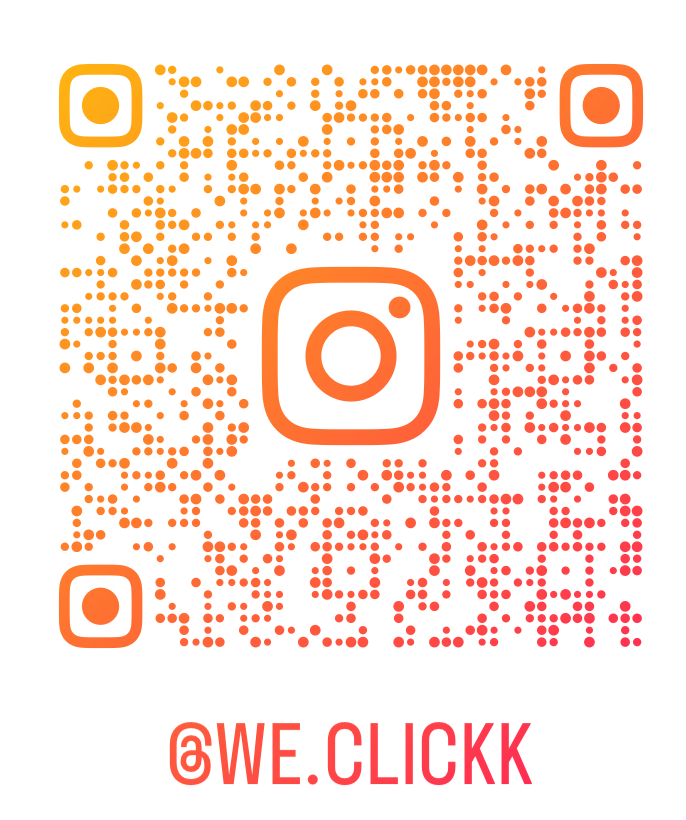
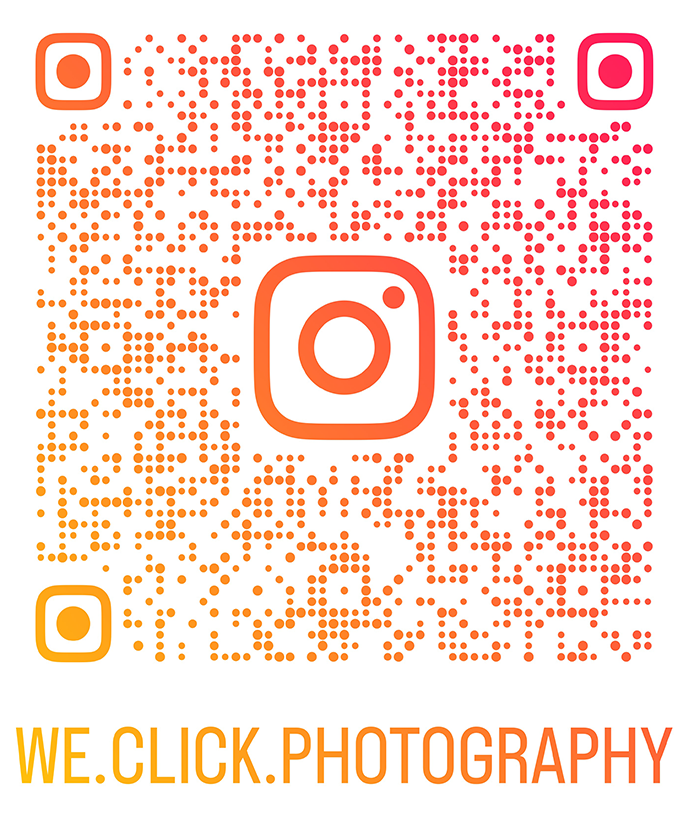
update

diff --git a/about.html b/about.html
@@ -6,7 +6,7 @@
 <meta name="description" content="">
 <meta name="author" content="">
 <link rel="shortcut icon" href="images/favicon.png">
-<title>We.Clickk Photography</title>
+<title>We Click Photography</title>
 <!-- Bootstrap core CSS -->
 <link href="style/css/bootstrap.min.css" rel="stylesheet">
 <link href="style/css/plugins.css" rel="stylesheet">
@@ -48,7 +48,7 @@
           <div class="col-md-7">
           <h5 class="section-title sans">Shaela Quader <br>
             <div class="meta"><span class="date">Co-founder and Operations Manager</span> <br> <i class="icon-phone-1"> (437)-665-8685</i> </div></h5>
-            <p>Hi, this is Shaela, the Operations Manager at We.Clickk. Growing up in a large family, I developed strong communication skills and a love for connecting with others. I enjoy meeting new people, understanding their concepts and requirements, and collaborating with photographers to bring those visions to life. Working with our clients has been a wonderful experience, thanks to their kindness and support.</p>
+            <p>Hi, this is Shaela, the Operations Manager at We Click Photography. Growing up in a large family, I developed strong communication skills and a love for connecting with others. I enjoy meeting new people, understanding their concepts and requirements, and collaborating with photographers to bring those visions to life. Working with our clients has been a wonderful experience, thanks to their kindness and support.</p>
             <blockquote>
               <p> "The best thing about a picture is that it never changes, even when the people in it do." – Andy Warhol</p>
             </blockquote>
@@ -76,14 +76,14 @@
 
             <h5 class="section-title sans">Alaul Asif<br>
               <div class="meta"> <span class="date">Founder and Photographer</span> <br> <i class="icon-phone-1"> (437)-660-0075</i></div></h5>
-            <p>Hello! I'm Alaul Asif, the chief photographer at We.Clickk. Growing up in a vibrant culture has inspired me to cover weddings, cultural events, and the fashion industry. I have a passion for capturing portraits, candid moments, and playful, humorous shots. I enjoy experimenting with light and color to create stunning images. I hope you enjoy my work and trust in my professionalism!</p>
+            <p>Hello! I'm Alaul Asif, the chief photographer at We Click Photography. Growing up in a vibrant culture has inspired me to cover weddings, cultural events, and the fashion industry. I have a passion for capturing portraits, candid moments, and playful, humorous shots. I enjoy experimenting with light and color to create stunning images. I hope you enjoy my work and trust in my professionalism!</p>
             <blockquote>
               <p> "For me, the subject of the picture is always more important than the picture." – Diane Arbus</p>
             </blockquote>
            
             <h6 class="sans">Connect Me!</h6>
             <ul class="social">
-              <li><a href="https://www.instagram.com/we.clickk/?igsh=MW1rNHFpbXN3N3k4OQ%3D%3D&utm_source=qr" target="_blank"><i class="icon-s-instagram"></i></a></li>
+              <li><a href="https://www.instagram.com/we.click.photography/" target="_blank"><i class="icon-s-instagram"></i></a></li>
             </ul>
           </div>
           <!-- /column --> 

diff --git a/include/footer.html b/include/footer.html
@@ -3,8 +3,8 @@
       <div class="row">
         <div class="col-sm-3">
           <div class="widget">
-            <h4 class="widget-title">Follow Us <a href="https://www.instagram.com/we.clickk/?igsh=MW1rNHFpbXN3N3k4OQ%3D%3D&utm_source=qr" target="_blank">@we.clickk</a> </h4>
-            <figure class="overlay"> <a href="https://www.instagram.com/we.clickk/?igsh=MW1rNHFpbXN3N3k4OQ%3D%3D&utm_source=qr" target="_blank"><img src="images/us/instagram_qr.png" style="width: 200px;"" /> </a> </figure>
+            <h4 class="widget-title">Follow Us <a href="https://www.instagram.com/we.click.photography/" target="_blank">@we.click.photography</a> </h4>
+            <figure class="overlay"> <a href="https://www.instagram.com/we.click.photography/" target="_blank"><img src="images/us/instagram_qr.png" style="width: 200px;"" /> </a> </figure>
           </div>
           <!-- /.widget --> 
         </div>
@@ -14,7 +14,7 @@
           <div class="widget">
             <h4 class="widget-title">Contact</h4>
             <address>
-            <strong>We.Clickk Photography</strong><br>
+            <strong>We Click Photography</strong><br>
            920 Yonge Street <br>
            Toronto, ON, M4W 3C8<br>
          <i class="icon-phone-1">&nbsp; (437)-667-8685</i> <br>
@@ -59,7 +59,7 @@ Shaela Quader is an amateur photographer and photoshoot supervisor who arranges 
     
     <div class="sub-footer">
       <div class="container inner">
-        <p class="text-center">© All rights reserved by We.Clickk Photography Team. </p>
+        <p class="text-center">© All rights reserved by We Click Photography Team. </p>
          
       </div>
       <!-- .container --> 

diff --git a/index.html b/index.html
@@ -6,7 +6,7 @@
 <meta name="description" content="">
 <meta name="author" content="">
 <link rel="shortcut icon" href="images/favicon.png">
-<title>We.Clickk Photography</title>
+<title>We Click Photography</title>
 <!-- Bootstrap core CSS -->
 <link href="style/css/bootstrap.min.css" rel="stylesheet">
 <link href="style/css/plugins.css" rel="stylesheet">
@@ -42,7 +42,7 @@
     <!-- /.navbar -->
 
     <!-- <div class="rev_slider_wrapper">
-      <div id="slider1" class="rev_slider" data-version="5.0">
+      <div id="slider1" class="rev_s lider" data-version="5.0">
         <ul id="slider">
           <li data-transition="parallaxtoright" data-fstransition="fade"> <img src="images/slider/slider_01.jpeg" class="img-fluid" alt=""> </li>
           <li data-transition="parallaxtobottom"> <img src="images/slider/slider_02.jpeg" alt=""> </li>
@@ -167,7 +167,7 @@
   <!--Bootstrap Carousel End-->
 
     <div class="container inner">
-      <p class="lead text-center bm0">We're "We.Clickk" team, freelance photographers specializing in wedding, proposal, kids, and conceptual portrait photography based in Toronto, Canada. Here you will be able to find our latest and favorite shots.</p>
+      <p class="lead text-center bm0">We're "We Click Photography" team, freelance photographers specializing in wedding, proposal, kids, and conceptual portrait photography based in Toronto, Canada. Here you will be able to find our latest and favorite shots.</p>
     </div>
     <!-- /.container -->
     

diff --git a/include/menu.html b/include/menu.html
@@ -1,6 +1,6 @@
 <div class="navbar navbar-default default" role="navigation">
     <div class="navbar-header">
-      <div class="navbar-brand"><a href="index.html"><img src="#" srcset="images/logo.png 1x, images/logo.png 2x" alt="" /></a></div>
+      <div class="navbar-brand"><a href="index.html"><img src="#" srcset="images/we.click.logo.white.2024.png 1x, images/we.click.logo.white.2024.png 2x" style="width: 128px!important;" alt="" /></a></div>
       <div class="nav-bars-wrapper">
         <div class="nav-bars-inner">
           <div class="nav-bars" data-toggle="collapse" data-target=".navbar-collapse"><span></span></div>

diff --git a/couple_photography.html b/couple_photography.html
@@ -6,7 +6,7 @@
 <meta name="description" content="">
 <meta name="author" content="">
 <link rel="shortcut icon" href="images/favicon.png">
-<title>We.Clickk Photography</title>
+<title>We Click Photography</title>
 <!-- Bootstrap core CSS -->
 <link href="style/css/bootstrap.min.css" rel="stylesheet">
 <link href="style/css/plugins.css" rel="stylesheet">

diff --git a/engagement_photography.html b/engagement_photography.html
@@ -6,7 +6,7 @@
 <meta name="description" content="">
 <meta name="author" content="">
 <link rel="shortcut icon" href="images/favicon.png">
-<title>We.Clickk Photography</title>
+<title>We Click Photography</title>
 <!-- Bootstrap core CSS -->
 <link href="style/css/bootstrap.min.css" rel="stylesheet">
 <link href="style/css/plugins.css" rel="stylesheet">

diff --git a/fnf_photography.html b/fnf_photography.html
@@ -6,7 +6,7 @@
 <meta name="description" content="">
 <meta name="author" content="">
 <link rel="shortcut icon" href="images/favicon.png">
-<title>We.Clickk Photography</title>
+<title>We Click Photography</title>
 <!-- Bootstrap core CSS -->
 <link href="style/css/bootstrap.min.css" rel="stylesheet">
 <link href="style/css/plugins.css" rel="stylesheet">

diff --git a/gallery.html b/gallery.html
@@ -6,7 +6,7 @@
 <meta name="description" content="">
 <meta name="author" content="">
 <link rel="shortcut icon" href="images/favicon.png">
-<title>We.Clickk Photography</title>
+<title>We Click Photography</title>
 <!-- Bootstrap core CSS -->
 <link href="style/css/bootstrap.min.css" rel="stylesheet">
 <link href="style/css/plugins.css" rel="stylesheet">

diff --git a/kids_photography.html b/kids_photography.html
@@ -6,7 +6,7 @@
 <meta name="description" content="">
 <meta name="author" content="">
 <link rel="shortcut icon" href="images/favicon.png">
-<title>We.Clickk Photography</title>
+<title>We Click Photography</title>
 <!-- Bootstrap core CSS -->
 <link href="style/css/bootstrap.min.css" rel="stylesheet">
 <link href="style/css/plugins.css" rel="stylesheet">

diff --git a/maternity_photography.html b/maternity_photography.html
@@ -6,7 +6,7 @@
 <meta name="description" content="">
 <meta name="author" content="">
 <link rel="shortcut icon" href="images/favicon.png">
-<title>We.Clickk Photography</title>
+<title>We Click Photography</title>
 <!-- Bootstrap core CSS -->
 <link href="style/css/bootstrap.min.css" rel="stylesheet">
 <link href="style/css/plugins.css" rel="stylesheet">

diff --git a/packages.html b/packages.html
@@ -6,7 +6,7 @@
 <meta name="description" content="">
 <meta name="author" content="">
 <link rel="shortcut icon" href="images/favicon.png">
-<title>We.Clickk Photography</title>
+<title>We Click Photography</title>
 <!-- Bootstrap core CSS -->
 <link href="style/css/bootstrap.min.css" rel="stylesheet">
 <link href="style/css/plugins.css" rel="stylesheet">

diff --git a/portrait_photography.html b/portrait_photography.html
@@ -6,7 +6,7 @@
 <meta name="description" content="">
 <meta name="author" content="">
 <link rel="shortcut icon" href="images/favicon.png">
-<title>We.Clickk Photography</title>
+<title>We Click Photography</title>
 <!-- Bootstrap core CSS -->
 <link href="style/css/bootstrap.min.css" rel="stylesheet">
 <link href="style/css/plugins.css" rel="stylesheet">
